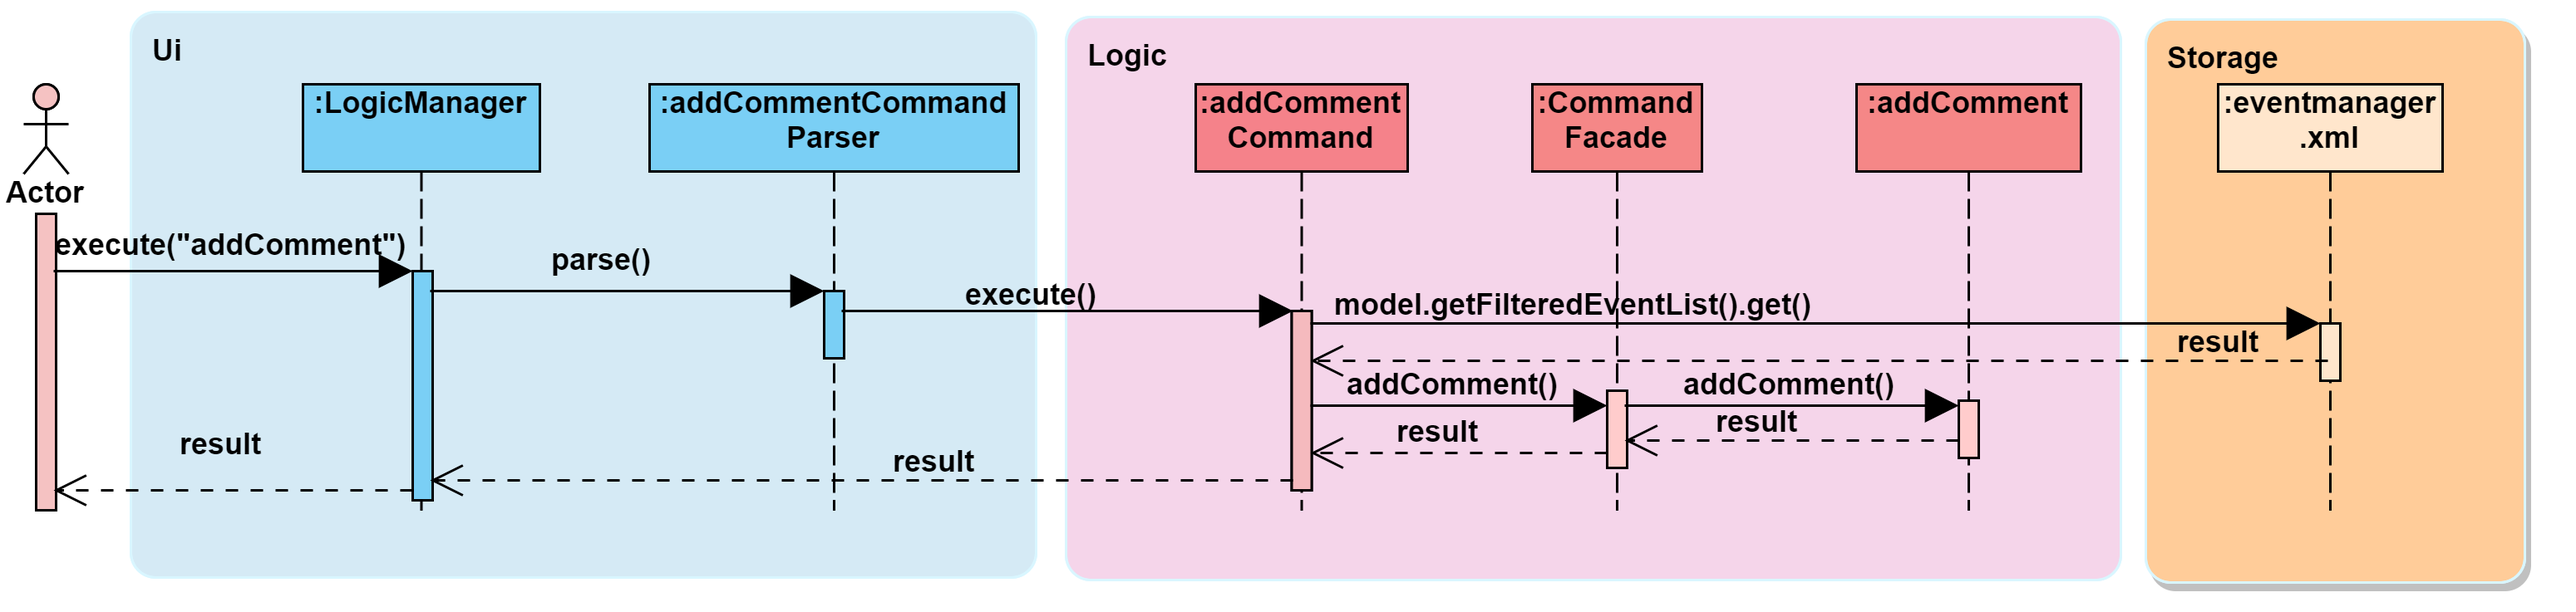
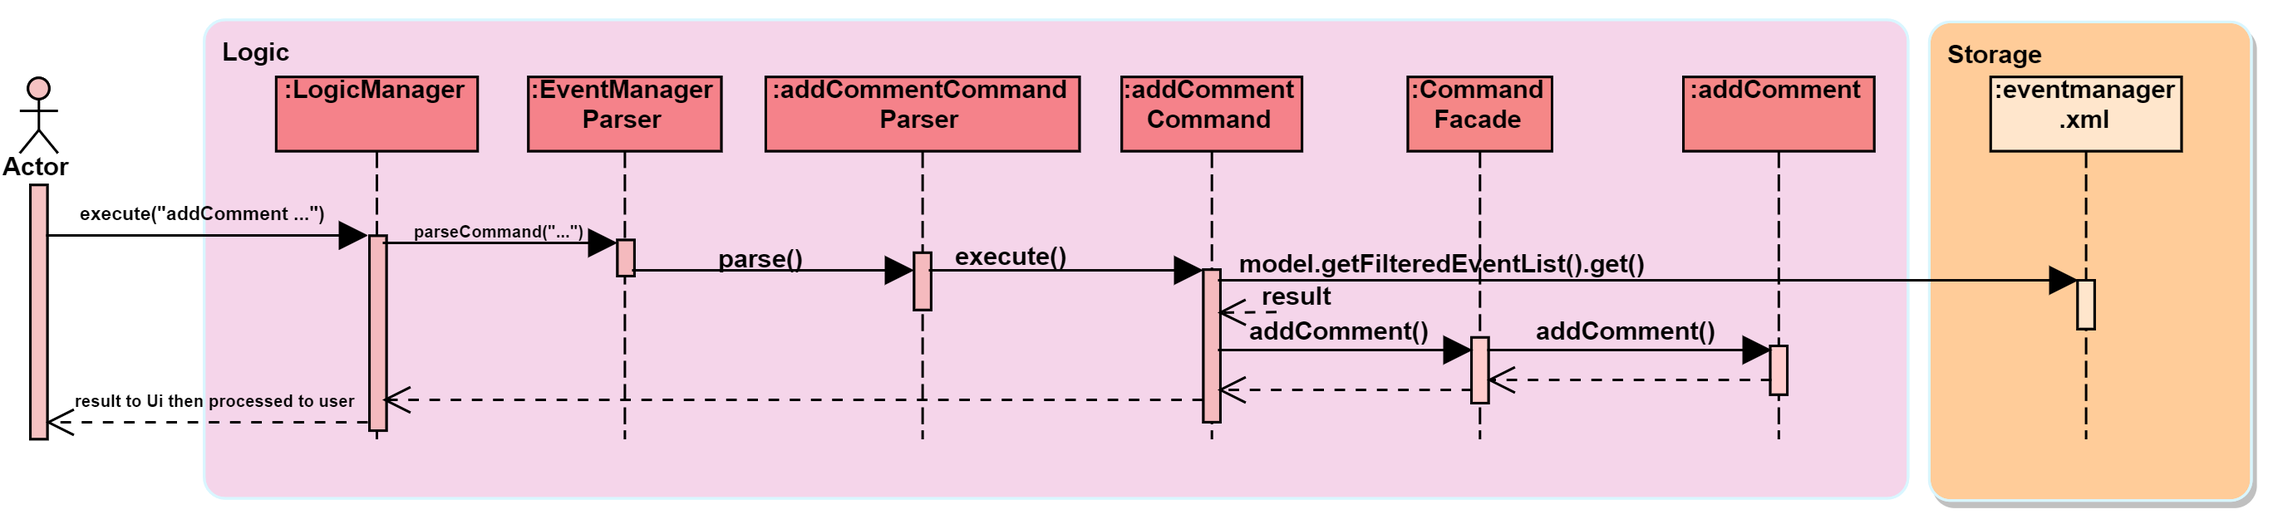
Rebuild pages at 625c6c9af6505f29badc865726231769a87d1d37

diff --git a/team/geraldcdx.html b/team/geraldcdx.html
@@ -441,7 +441,7 @@ Deletes the comment at line 2 of the 2nd event.</p>
 </ul>
 </div>
 <div class="paragraph">
-<p>The Comand Line Interface uses <code>AddCommentCommand</code>, <code>DeleteCommentCommand</code>, <code>ReplyCommentCommand</code> and <code>EditCommand</code> for the user to interact with the comment section. The features of the following classes are as such:</p>
+<p>The Command Line Interface uses <code>AddCommentCommand</code>, <code>DeleteCommentCommand</code>, <code>ReplyCommentCommand</code> and <code>EditCommand</code> for the user to interact with the comment section. The features of the following classes are as such:</p>
 </div>
 <div class="ulist">
 <ul>
@@ -455,7 +455,7 @@ Deletes the comment at line 2 of the 2nd event.</p>
 <p><code>ReplyCommentCommand</code>&#8201;&#8212;&#8201;Replies a comment using <code>CommentFacade</code> and <code>ReplyCommentCommandParser</code></p>
 </li>
 <li>
-<p><code>EditComamnd</code>&#8201;&#8212;&#8201;Resets the whole comment section using <code>editEventDescriptor</code> and <code>EditCommandParser</code></p>
+<p><code>EditCommand</code>&#8201;&#8212;&#8201;Resets the whole comment section using <code>editEventDescriptor</code> and <code>EditCommandParser</code></p>
 </li>
 </ul>
 </div>
@@ -463,10 +463,29 @@ Deletes the comment at line 2 of the 2nd event.</p>
 <p>Given below is an example usage scenario and how the Comments mechanism behaves at each step.</p>
 </div>
 <div class="paragraph">
-<p>Step 1. The user launches the application, logs in and click on an event or types <code>select INDEX</code> into the CLI. The comment section will be seen along with other details in the <code>BrowserPanel</code></p>
+<p>Step 1. The user launches the application, logs in and click on an event or types <code>select INDEX</code> into the CLI. The comment section will be seen along with other details in the <code>BrowserPanel</code>.</p>
 </div>
 <div class="paragraph">
 <p>Step 2. The user/admin executes <code>addComment 1 C/May I ask, what is the attire for the event?</code> to add a comment to the first event in the Event Manager. <code>AddCommentCommand</code> command obtains the comment section from <code>eventmanager.xml</code> calls <code>CommentFacade</code> to add comment "May I ask, what is the attire for the event", into the comment section and stores the comment section into <code>eventmanager.xml</code></p>
+</div>
+<div class="paragraph">
+<p>The following sequence diagram shows how the AddCommentCommand operation works:</p>
+</div>
+<div class="imageblock">
+<div class="content">
+<img src="../images/addCommentSequenceDiagram.png" alt="addCommentSequenceDiagram" width="800">
+</div>
+<div class="title">Figure 4. Sequence Diagram for AddCommentCommand</div>
+</div>
+<div class="exampleblock">
+<div class="content">
+<div class="paragraph">
+<p><strong>Detailed description of diagram</strong>: The user inputs "addComment 1 C/Hi". <code>LogicManager#execute("addComment 1 C/Hi")</code> and calls <code>EventManagerParser#parseCommand("addComment 1 C/Hi")</code>. Then, <code>AddCommentCommandParser#parse("1 C/Hi")</code> will be called and <code>AddCommentCommand#execute()</code> will obtain the event needed from <code>eventmanager.xml</code>. Finally, <code>CommandFacade#addComment</code> will be called and <code>AddComment#addComment</code> will process and add the new comment into the comment section. After all this, results will be returned to the various receivers and display an updated comments section to the user.</p>
+</div>
+<div class="paragraph">
+<p>The <code>replyComment</code> and <code>deleteComment</code> command does similar methods and need not be elaborated.</p>
+</div>
+</div>
 </div>
 <div class="paragraph">
 <p>Step 3. The user/admin executes <code>replyComment 1 L/1 C/Athletic attire</code> to reply the comment in step 2. <code>ReplyCommentCommand</code> command obtains the comment section from <code>eventmanager.xml</code> calls <code>CommentFacade</code> to reply comment with "Athletic attire", into the comment section and stores the comment section into <code>eventmanager.xml</code></p>
@@ -493,34 +512,11 @@ Deletes the comment at line 2 of the 2nd event.</p>
 <p>In the case a false indexed event is not present, the functions will return an invalid index message.</p>
 </li>
 <li>
-<p>In the case a false comment section line is given, the functions will return an invalid line message.</p>
+<p>In the case a false comment section line is given, the functions will return an invalid line message.
+If the user uses the <code>find</code> command, the following functions will follow the indexing of the <code>find</code> command.</p>
 </li>
 </ul>
 </div>
-</td>
-</tr>
-</table>
-</div>
-<div class="paragraph">
-<p>The following sequence diagram shows how the AddCommentCommand operation works:</p>
-</div>
-<div class="imageblock">
-<div class="content">
-<img src="../images/addCommentSequenceDiagram.png" alt="addCommentSequenceDiagram" width="800">
-</div>
-<div class="title">Figure 4. Sequence Diagram for AddCommentCommand</div>
-</div>
-<div class="paragraph">
-<p>The <code>replyComment</code> and <code>deleteComment</code> command does similar methods and need not be elaborated.</p>
-</div>
-<div class="admonitionblock note">
-<table>
-<tr>
-<td class="icon">
-<i class="fa icon-note" title="Note"></i>
-</td>
-<td class="content">
-If the user uses the <code>find</code> command, the following functions will follow the indexing of the <code>find</code> command.
 </td>
 </tr>
 </table>
@@ -613,4 +609,4 @@ If the user uses the <code>find</code> command, the following functions will fol
 </ol>
 </div>
 </div>
-</div></div><div id="footer"><div class="container"><div id="footer-text">Last updated 2018-11-10 03:18:04 UTC</div></div></div></body></html>
+</div></div><div id="footer"><div class="container"><div id="footer-text">Last updated 2018-11-10 03:48:08 UTC</div></div></div></body></html>

diff --git a/DeveloperGuide.html b/DeveloperGuide.html
@@ -938,7 +938,7 @@ that most modern desktop applications follow.</p>
 </ul>
 </div>
 <div class="paragraph">
-<p>The Comand Line Interface uses <code>AddCommentCommand</code>, <code>DeleteCommentCommand</code>, <code>ReplyCommentCommand</code> and <code>EditCommand</code> for the user to interact with the comment section. The features of the following classes are as such:</p>
+<p>The Command Line Interface uses <code>AddCommentCommand</code>, <code>DeleteCommentCommand</code>, <code>ReplyCommentCommand</code> and <code>EditCommand</code> for the user to interact with the comment section. The features of the following classes are as such:</p>
 </div>
 <div class="ulist">
 <ul>
@@ -952,7 +952,7 @@ that most modern desktop applications follow.</p>
 <p><code>ReplyCommentCommand</code>&#8201;&#8212;&#8201;Replies a comment using <code>CommentFacade</code> and <code>ReplyCommentCommandParser</code></p>
 </li>
 <li>
-<p><code>EditComamnd</code>&#8201;&#8212;&#8201;Resets the whole comment section using <code>editEventDescriptor</code> and <code>EditCommandParser</code></p>
+<p><code>EditCommand</code>&#8201;&#8212;&#8201;Resets the whole comment section using <code>editEventDescriptor</code> and <code>EditCommandParser</code></p>
 </li>
 </ul>
 </div>
@@ -960,10 +960,29 @@ that most modern desktop applications follow.</p>
 <p>Given below is an example usage scenario and how the Comments mechanism behaves at each step.</p>
 </div>
 <div class="paragraph">
-<p>Step 1. The user launches the application, logs in and click on an event or types <code>select INDEX</code> into the CLI. The comment section will be seen along with other details in the <code>BrowserPanel</code></p>
+<p>Step 1. The user launches the application, logs in and click on an event or types <code>select INDEX</code> into the CLI. The comment section will be seen along with other details in the <code>BrowserPanel</code>.</p>
 </div>
 <div class="paragraph">
 <p>Step 2. The user/admin executes <code>addComment 1 C/May I ask, what is the attire for the event?</code> to add a comment to the first event in the Event Manager. <code>AddCommentCommand</code> command obtains the comment section from <code>eventmanager.xml</code> calls <code>CommentFacade</code> to add comment "May I ask, what is the attire for the event", into the comment section and stores the comment section into <code>eventmanager.xml</code></p>
+</div>
+<div class="paragraph">
+<p>The following sequence diagram shows how the AddCommentCommand operation works:</p>
+</div>
+<div class="imageblock">
+<div class="content">
+<img src="images/addCommentSequenceDiagram.png" alt="addCommentSequenceDiagram" width="800">
+</div>
+<div class="title">Figure 10. Sequence Diagram for AddCommentCommand</div>
+</div>
+<div class="exampleblock">
+<div class="content">
+<div class="paragraph">
+<p><strong>Detailed description of diagram</strong>: The user inputs "addComment 1 C/Hi". <code>LogicManager#execute("addComment 1 C/Hi")</code> and calls <code>EventManagerParser#parseCommand("addComment 1 C/Hi")</code>. Then, <code>AddCommentCommandParser#parse("1 C/Hi")</code> will be called and <code>AddCommentCommand#execute()</code> will obtain the event needed from <code>eventmanager.xml</code>. Finally, <code>CommandFacade#addComment</code> will be called and <code>AddComment#addComment</code> will process and add the new comment into the comment section. After all this, results will be returned to the various receivers and display an updated comments section to the user.</p>
+</div>
+<div class="paragraph">
+<p>The <code>replyComment</code> and <code>deleteComment</code> command does similar methods and need not be elaborated.</p>
+</div>
+</div>
 </div>
 <div class="paragraph">
 <p>Step 3. The user/admin executes <code>replyComment 1 L/1 C/Athletic attire</code> to reply the comment in step 2. <code>ReplyCommentCommand</code> command obtains the comment section from <code>eventmanager.xml</code> calls <code>CommentFacade</code> to reply comment with "Athletic attire", into the comment section and stores the comment section into <code>eventmanager.xml</code></p>
@@ -990,34 +1009,11 @@ that most modern desktop applications follow.</p>
 <p>In the case a false indexed event is not present, the functions will return an invalid index message.</p>
 </li>
 <li>
-<p>In the case a false comment section line is given, the functions will return an invalid line message.</p>
+<p>In the case a false comment section line is given, the functions will return an invalid line message.
+If the user uses the <code>find</code> command, the following functions will follow the indexing of the <code>find</code> command.</p>
 </li>
 </ul>
 </div>
-</td>
-</tr>
-</table>
-</div>
-<div class="paragraph">
-<p>The following sequence diagram shows how the AddCommentCommand operation works:</p>
-</div>
-<div class="imageblock">
-<div class="content">
-<img src="images/addCommentSequenceDiagram.png" alt="addCommentSequenceDiagram" width="800">
-</div>
-<div class="title">Figure 10. Sequence Diagram for AddCommentCommand</div>
-</div>
-<div class="paragraph">
-<p>The <code>replyComment</code> and <code>deleteComment</code> command does similar methods and need not be elaborated.</p>
-</div>
-<div class="admonitionblock note">
-<table>
-<tr>
-<td class="icon">
-<i class="fa icon-note" title="Note"></i>
-</td>
-<td class="content">
-If the user uses the <code>find</code> command, the following functions will follow the indexing of the <code>find</code> command.
 </td>
 </tr>
 </table>
@@ -3224,4 +3220,4 @@ Expected: Similar to previous.</p>
 </div>
 </div>
 </div>
-</div></div><div id="footer"><div class="container"><div id="footer-text">Last updated 2018-11-10 03:18:04 UTC</div></div></div></body></html>
+</div></div><div id="footer"><div class="container"><div id="footer-text">Last updated 2018-11-10 03:48:08 UTC</div></div></div></body></html>

diff --git a/team/johndoe.html b/team/johndoe.html
@@ -471,4 +471,4 @@ that most modern desktop applications follow.</p>
 <p><em>{Optionally, you may include other projects in your portfolio.}</em></p>
 </div>
 </div>
-</div></div><div id="footer"><div class="container"><div id="footer-text">Last updated 2018-11-10 03:18:04 UTC</div></div></div></body></html>
+</div></div><div id="footer"><div class="container"><div id="footer-text">Last updated 2018-11-10 03:48:08 UTC</div></div></div></body></html>

diff --git a/ContactUs.html b/ContactUs.html
@@ -12,4 +12,4 @@
 <p><strong>Email us</strong> : You can also reach us at <code>damith [at] comp.nus.edu.sg</code></p>
 </li>
 </ul>
-</div></div><div id="footer"><div class="container"><div id="footer-text">Last updated 2018-11-10 03:18:04 UTC</div></div></div></body></html>
+</div></div><div id="footer"><div class="container"><div id="footer-text">Last updated 2018-11-10 03:48:08 UTC</div></div></div></body></html>

diff --git a/LearningOutcomes.html b/LearningOutcomes.html
@@ -542,4 +542,4 @@ class gives some examples of how to use <em>Equivalence Partitions</em>, <em>Bou
 </div>
 </div>
 </div>
-</div></div><div id="footer"><div class="container"><div id="footer-text">Last updated 2018-11-10 03:18:04 UTC</div></div></div></body></html>
+</div></div><div id="footer"><div class="container"><div id="footer-text">Last updated 2018-11-10 03:48:08 UTC</div></div></div></body></html>

diff --git a/UsingGradle.html b/UsingGradle.html
@@ -255,4 +255,4 @@ See <code>build.gradle</code> &#8594; <code>allprojects</code> &#8594; <code>dep
 </ul>
 </div>
 </div>
-</div></div><div id="footer"><div class="container"><div id="footer-text">Last updated 2018-11-10 03:18:04 UTC</div></div></div></body></html>
+</div></div><div id="footer"><div class="container"><div id="footer-text">Last updated 2018-11-10 03:48:08 UTC</div></div></div></body></html>

diff --git a/UsingNetlify.html b/UsingNetlify.html
@@ -123,4 +123,4 @@ The publish directory is the directory in which the built HTML documentation res
 </ol>
 </div>
 </div>
-</div></div><div id="footer"><div class="container"><div id="footer-text">Last updated 2018-11-10 03:18:04 UTC</div></div></div></body></html>
+</div></div><div id="footer"><div class="container"><div id="footer-text">Last updated 2018-11-10 03:48:08 UTC</div></div></div></body></html>

diff --git a/UsingCoveralls.html b/UsingCoveralls.html
@@ -96,4 +96,4 @@ If you have not set up Travis CI, see <a href="UsingTravis.html">UsingTravis.ado
 </ol>
 </div>
 </div>
-</div></div><div id="footer"><div class="container"><div id="footer-text">Last updated 2018-11-10 03:18:04 UTC</div></div></div></body></html>
+</div></div><div id="footer"><div class="container"><div id="footer-text">Last updated 2018-11-10 03:48:08 UTC</div></div></div></body></html>

diff --git a/team/tertium3.html b/team/tertium3.html
@@ -567,4 +567,4 @@ All method are written in the <code>ExportCalendarCommand</code> class.</p>
 </div>
 </div>
 </div>
-</div></div><div id="footer"><div class="container"><div id="footer-text">Last updated 2018-11-10 03:18:04 UTC</div></div></div></body></html>
+</div></div><div id="footer"><div class="container"><div id="footer-text">Last updated 2018-11-10 03:48:08 UTC</div></div></div></body></html>

diff --git a/UsingTravis.html b/UsingTravis.html
@@ -280,4 +280,4 @@ Suggested change: Remove the codacy badge from <code>README</code>.</p>
 </div>
 </div>
 </div>
-</div></div><div id="footer"><div class="container"><div id="footer-text">Last updated 2018-11-10 03:18:04 UTC</div></div></div></body></html>
+</div></div><div id="footer"><div class="container"><div id="footer-text">Last updated 2018-11-10 03:48:08 UTC</div></div></div></body></html>

diff --git a/AboutUs.html b/AboutUs.html
@@ -92,4 +92,4 @@ Responsibilities: Sort, Filter and Calendar export</p>
 <hr>
 </div>
 </div>
-</div></div><div id="footer"><div class="container"><div id="footer-text">Last updated 2018-11-10 03:18:04 UTC</div></div></div></body></html>
+</div></div><div id="footer"><div class="container"><div id="footer-text">Last updated 2018-11-10 03:48:08 UTC</div></div></div></body></html>

diff --git a/UsingCheckstyle.html b/UsingCheckstyle.html
@@ -91,4 +91,4 @@ Restart the IDE to complete the installation.</p>
 </ul>
 </div>
 </div>
-</div></div><div id="footer"><div class="container"><div id="footer-text">Last updated 2018-11-10 03:18:04 UTC</div></div></div></body></html>
+</div></div><div id="footer"><div class="container"><div id="footer-text">Last updated 2018-11-10 03:48:08 UTC</div></div></div></body></html>
